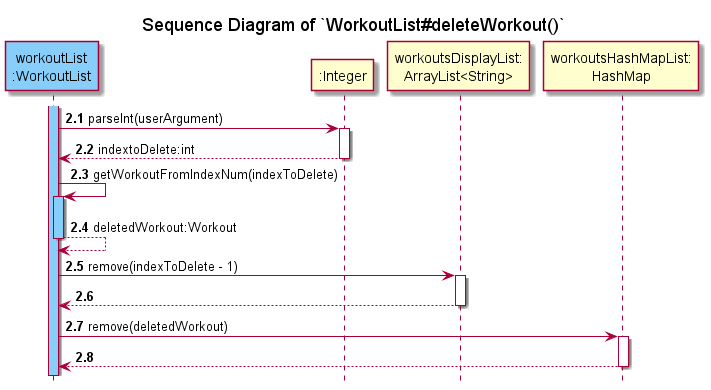
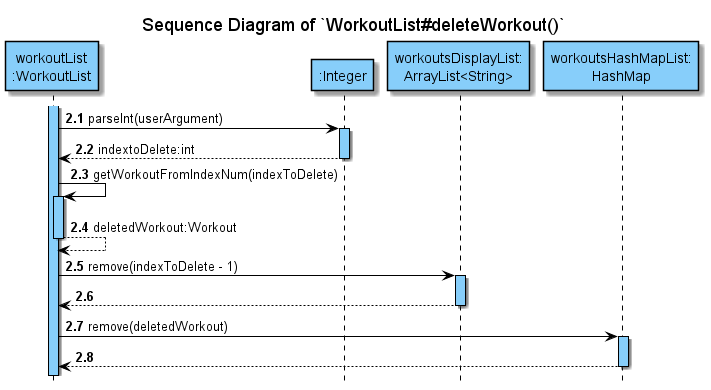
Colour delete workout diagram

diff --git a/docs/DeveloperGuide.md b/docs/DeveloperGuide.md
@@ -877,21 +877,21 @@ The following sequence diagram is the detailed procedure for Step 2's `WorkoutLi
 <span class="box info">:memo: To improve the diagram's readability, logging-related and input-checking method calls, and exception throws in
  `WorkoutList#deleteWorkout()` have been omitted.</span>
 
-**(Steps 2.1 to 2.2)** The `Integer#parseInt()` method is called to parse the user argument parameter given to `WorkoutList#deleteWorkout(userArgument)`.
+**(Steps 2.1 to 2.2)** The `Integer#parseInt()` method is called to parse the user argument parameter given to `WorkoutList#deleteWorkout()`.
 In this case, the user argument parameter is the workout index number of the workout to be deleted from the workout list as a `String` object.
 <br><br>
-**(Steps 2.3 to 2.4)** With the workout index to delete, the `WorkoutList#deleteWorkout(userArgument)` method will then
-fetch the `Workout` object to be deleted by calling the `WorkoutList#getWorkoutFromIndexNum(indexToDelete)` method.
-However, before that `Workout` object is fetched, the `WorkoutList#deleteWorkout(userArgument)` method
+**(Steps 2.3 to 2.4)** With the workout index to delete, the `WorkoutList#deleteWorkout()` method will then
+fetch the `Workout` object to be deleted by calling the `WorkoutList#getWorkoutFromIndexNum()` method.
+However, before that `Workout` object is fetched, the `WorkoutList#deleteWorkout()` method
 checks that the workout index to delete is within the range of the application's workout list.
 If index to delete is not within the range of the workout list, an `InvalidWorkoutException` exception is thrown.
 <br><br>
 **(Steps 2.5 to 2.8)** The `Workout` object to be deleted is subsequently removed from the ArrayList and HashMap which stores the
 application's workout list.
 <br><br>
-**(Step 3)** The `WorkoutList#deleteWorkout(userArgument)` method returns the deleted `Workout` object to `WorkoutCommand`.
+**(Step 3)** The `WorkoutList#deleteWorkout()` method returns the deleted `Workout` object to `WorkoutCommand`.
 <br><br>
-**(Steps 4 to 5)** Upon returning to the `WorkoutCommand` object, the `UI#printDeleteWorkoutMessage(deletedWorkout)` is called
+**(Steps 4 to 5)** Upon returning to the `WorkoutCommand` object, the `UI#printDeleteWorkoutMessage()` is called
 to display the workout that has been deleted to the user via the terminal. The following is an example 
 of a success deletion message after a valid workout is deleted from the application's workout list:
 ```
@@ -906,11 +906,14 @@ Alright, the following workout has been removed:
 **(Steps 6 to 7)** The `WorkoutCommand#deletePlanContainsDeletedWorkout()` method will
 be called to delete any existing plan(s) that contains that deleted workout.
 <br><br>
-**(Steps 8 to 11)** The `FileManager#rewriteAllWorkoutsToFile(workoutList)` is called to rewrite
+**(Steps 8 to 11)** The `FileManager#rewriteAllWorkoutsToFile()` is called to rewrite
 the `workouts.txt` file according to the newly modified application's workout list and the
-`FileManager#rewriteAllPlansToFile(planList)` is also called to rewrite
+`FileManager#rewriteAllPlansToFile()` is also called to rewrite
 the `plans.txt` file according to the newly modified application's plan list.
-<br><br>
+For more information on the file management, 
+refer to this [section](DeveloperGuide.md#rewriting-the-entire-resource-file-with-the-most-recent-set-of-data).
+
+<br/><br/>
 This completes the process of deleting an existing workout in WerkIt!
 
 ##### Design Considerations for Deleting Existing Workout
